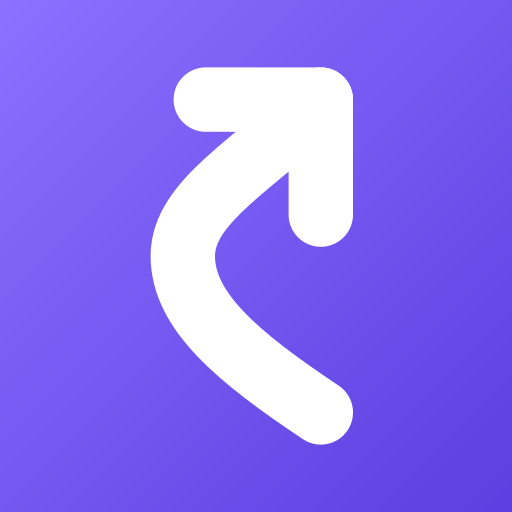
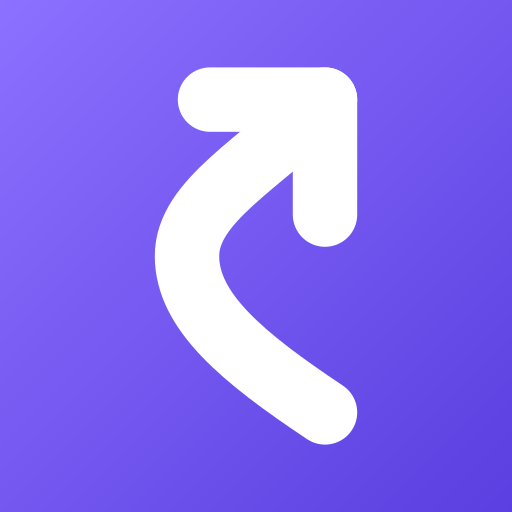
feat(marca): pulso del punto, flecha a su altura original y centrada en los íconos
- Logo: la flecha vuelve a translate(-1 7.6) (sobresale por arriba de la "k", se lee como
  subida) y mantiene el acercamiento al texto
- Header y footer: el punto de "kaptativa." es un círculo que late y suelta un halo violeta
  en bucle de 2,4 s; quieto con "reducir movimiento"
- Flecha centrada por su caja de tinta: favicon (tx 10.2 → 10.725) e isotipo 3D
  (translate 44.75 38 → 47.625 25.5; estaba baja, 28,6 de aire arriba y 3,6 abajo)
- favicon.ico, icon-192, icon-512, apple-touch-icon y og-image regenerados
- docs/diseno.md: altura de la flecha y reglas de centrado

diff --git a/docs/og-image.html b/docs/og-image.html
@@ -10,7 +10,7 @@
   .url{position:absolute;left:90px;top:552px;font-size:21px;color:#B9B7C4}
   .iso{position:absolute;left:968px;top:150px;filter:drop-shadow(0 22px 34px rgba(124,92,255,.45))}
 </style></head><body>
-<svg class="logo" height="78" viewBox="3 8 166 44"><g transform="translate(-1 8.3) scale(0.69)" stroke="#7C5CFF" stroke-width="6.2" stroke-linecap="round" stroke-linejoin="round" fill="none"><path d="M 26 47 C 17 41 11 36 11 30 C 11 24 19 20 26 13"/><path d="M 13.5 13 L 26 13 L 26 25.5"/></g><text x="26" y="39" font-family="Lexend" font-size="27" font-weight="600" fill="#fff" letter-spacing="0.3">kaptativa<tspan fill="#7C5CFF">.</tspan></text></svg>
+<svg class="logo" height="78" viewBox="3 8 166 44"><g transform="translate(-1 7.6) scale(0.69)" stroke="#7C5CFF" stroke-width="6.2" stroke-linecap="round" stroke-linejoin="round" fill="none"><path d="M 26 47 C 17 41 11 36 11 30 C 11 24 19 20 26 13"/><path d="M 13.5 13 L 26 13 L 26 25.5"/></g><text x="26" y="39" font-family="Lexend" font-size="27" font-weight="600" fill="#fff" letter-spacing="0.3">kaptativa<tspan fill="#7C5CFF">.</tspan></text></svg>
 <h1>Sitio web y sistema de<br>gestión para <span>tu negocio.</span></h1>
 <p>Tienda online, pedidos, facturación y asistente con IA<br>en una plataforma que administrás vos.</p>
 <div class="url">kaptativa.com</div>
@@ -43,7 +43,7 @@
       <!-- brillo superior -->
       <path d="M58 26h44a30 30 0 0 1 30 30v12c-24-6-50-8-104 0V56a30 30 0 0 1 30-30z" fill="url(#isoGloss)" />
       <!-- K de la marca: extrusión y cara -->
-      <g transform="translate(44.75 38) scale(1.75)" fill="none" stroke-linecap="round" stroke-linejoin="round" stroke-width="7">
+      <g transform="translate(47.625 25.5) scale(1.75)" fill="none" stroke-linecap="round" stroke-linejoin="round" stroke-width="7">
         <g stroke="#3B2A8F" transform="translate(0 3.2)">
           <path d="M 26 47 C 17 41 11 36 11 30 C 11 24 19 20 26 13" />
           <path d="M 13.5 13 L 26 13 L 26 25.5" />

diff --git a/src/styles/global.css b/src/styles/global.css
@@ -7223,3 +7223,14 @@ svg.glyph { width: 1em; height: 1em; vertical-align: -0.125em; flex-shrink: 0; }
 .section-light .comp-card-good .comp-list li span { background: #7C5CFF !important; border: 1.5px solid #7C5CFF !important; color: #FFFFFF !important; }
 @media (max-width: 820px) { .section-light .comparison-grid::after { display: none; } .section-light .comp-card-good:hover { transform: none; } }
 @media (prefers-reduced-motion: reduce) { .section-light .comp-card-good:hover { transform: none; } }
+
+/* Punto de "kaptativa." en header y footer: late suave y suelta un halo, en bucle (quieto con "reducir movimiento").
+   Es un círculo (no el glifo "."): así escala desde su centro real. Centro y radio medidos sobre la tinta del "." de Lexend 600. */
+.logo-dot, .logo-dot-halo { transform-box: fill-box; transform-origin: center; }
+.logo-dot-halo { opacity: 0; }
+@media (prefers-reduced-motion: no-preference) {
+  .logo-dot { animation: logo-dot-pulse 2.4s ease-in-out infinite; }
+  .logo-dot-halo { animation: logo-dot-halo 2.4s ease-out infinite; }
+}
+@keyframes logo-dot-pulse { 0%, 100% { transform: scale(1); } 18% { transform: scale(1.22); } 36% { transform: scale(1); } }
+@keyframes logo-dot-halo { 0% { transform: scale(1); opacity: 0.55; } 60% { transform: scale(3); opacity: 0; } 100% { transform: scale(3); opacity: 0; } }

diff --git a/docs/diseno.md b/docs/diseno.md
@@ -91,8 +91,8 @@ Dos clases equivalentes: `h2-light` (home) y `section-light` (global, en `global
 Isotipo (flecha) y punto de "kaptativa." en v-500 sólido, sin degradado. Archivos: `Header.astro`, `Footer.astro`, `public/logo.svg`, `public/favicon.svg`, `public/og-image.jpg` (1200×630).
 
 Geometría de la flecha (en todos lados, misma escala de 40×40): curva `M 26 47 C 17 41 11 36 11 30 C 11 24 19 20 26 13` y punta `M 13.5 13 L 26 13 L 26 25.5`. La curva entra a 45° en la punta (igual que la flecha) y la cola termina alineada con la punta.
-- Junto al texto: trazo 6,2 con `translate(-1 8.3) scale(0.69)` en `viewBox="3 8 166 44"`, con el texto en x=26 (se apoya en el peso de Lexend 600; la flecha queda centrada entre la altura de la "k" y la línea de base).
-- Como ícono (favicon, íconos de app, isotipo 3D): trazo 7, ocupando ~70 % del alto de la pastilla (`translate(10.2 -2.5) scale(1.15)` en 64×64).
+- Junto al texto: trazo 6,2 con `translate(-1 7.6) scale(0.69)` en `viewBox="3 8 166 44"`, con el texto en x=26 (se apoya en el peso de Lexend 600). La flecha sobresale por arriba de la "k" a propósito: apunta hacia arriba y así se lee como subida.
+- Como ícono (favicon, íconos de app, isotipo 3D): trazo 7, ocupando ~70 % del alto de la pastilla (`translate(10.725 -2.5) scale(1.15)` en 64×64; en el isotipo 3D `translate(47.625 25.5) scale(1.75)` sobre la cara de 104). Siempre centrada por su caja de tinta: centro (18,5; 30) con trazo 7.
 - Íconos PNG (`icon-192`, `icon-512`, `apple-touch-icon`) y `favicon.ico` (16/32/48) salen de `favicon.svg` (los PNG sin esquinas redondeadas). `og-image.jpg` sale de `docs/og-image.html` con captura de Chrome a 1200×630.
 
 12. **Un bloque bento por página, no más.** En la home, los módulos van en grilla bento con dos tiles en violeta sólido (Sitio web y Asistente IA) como foco; el resto de las secciones mantiene tarjetas sobrias.
